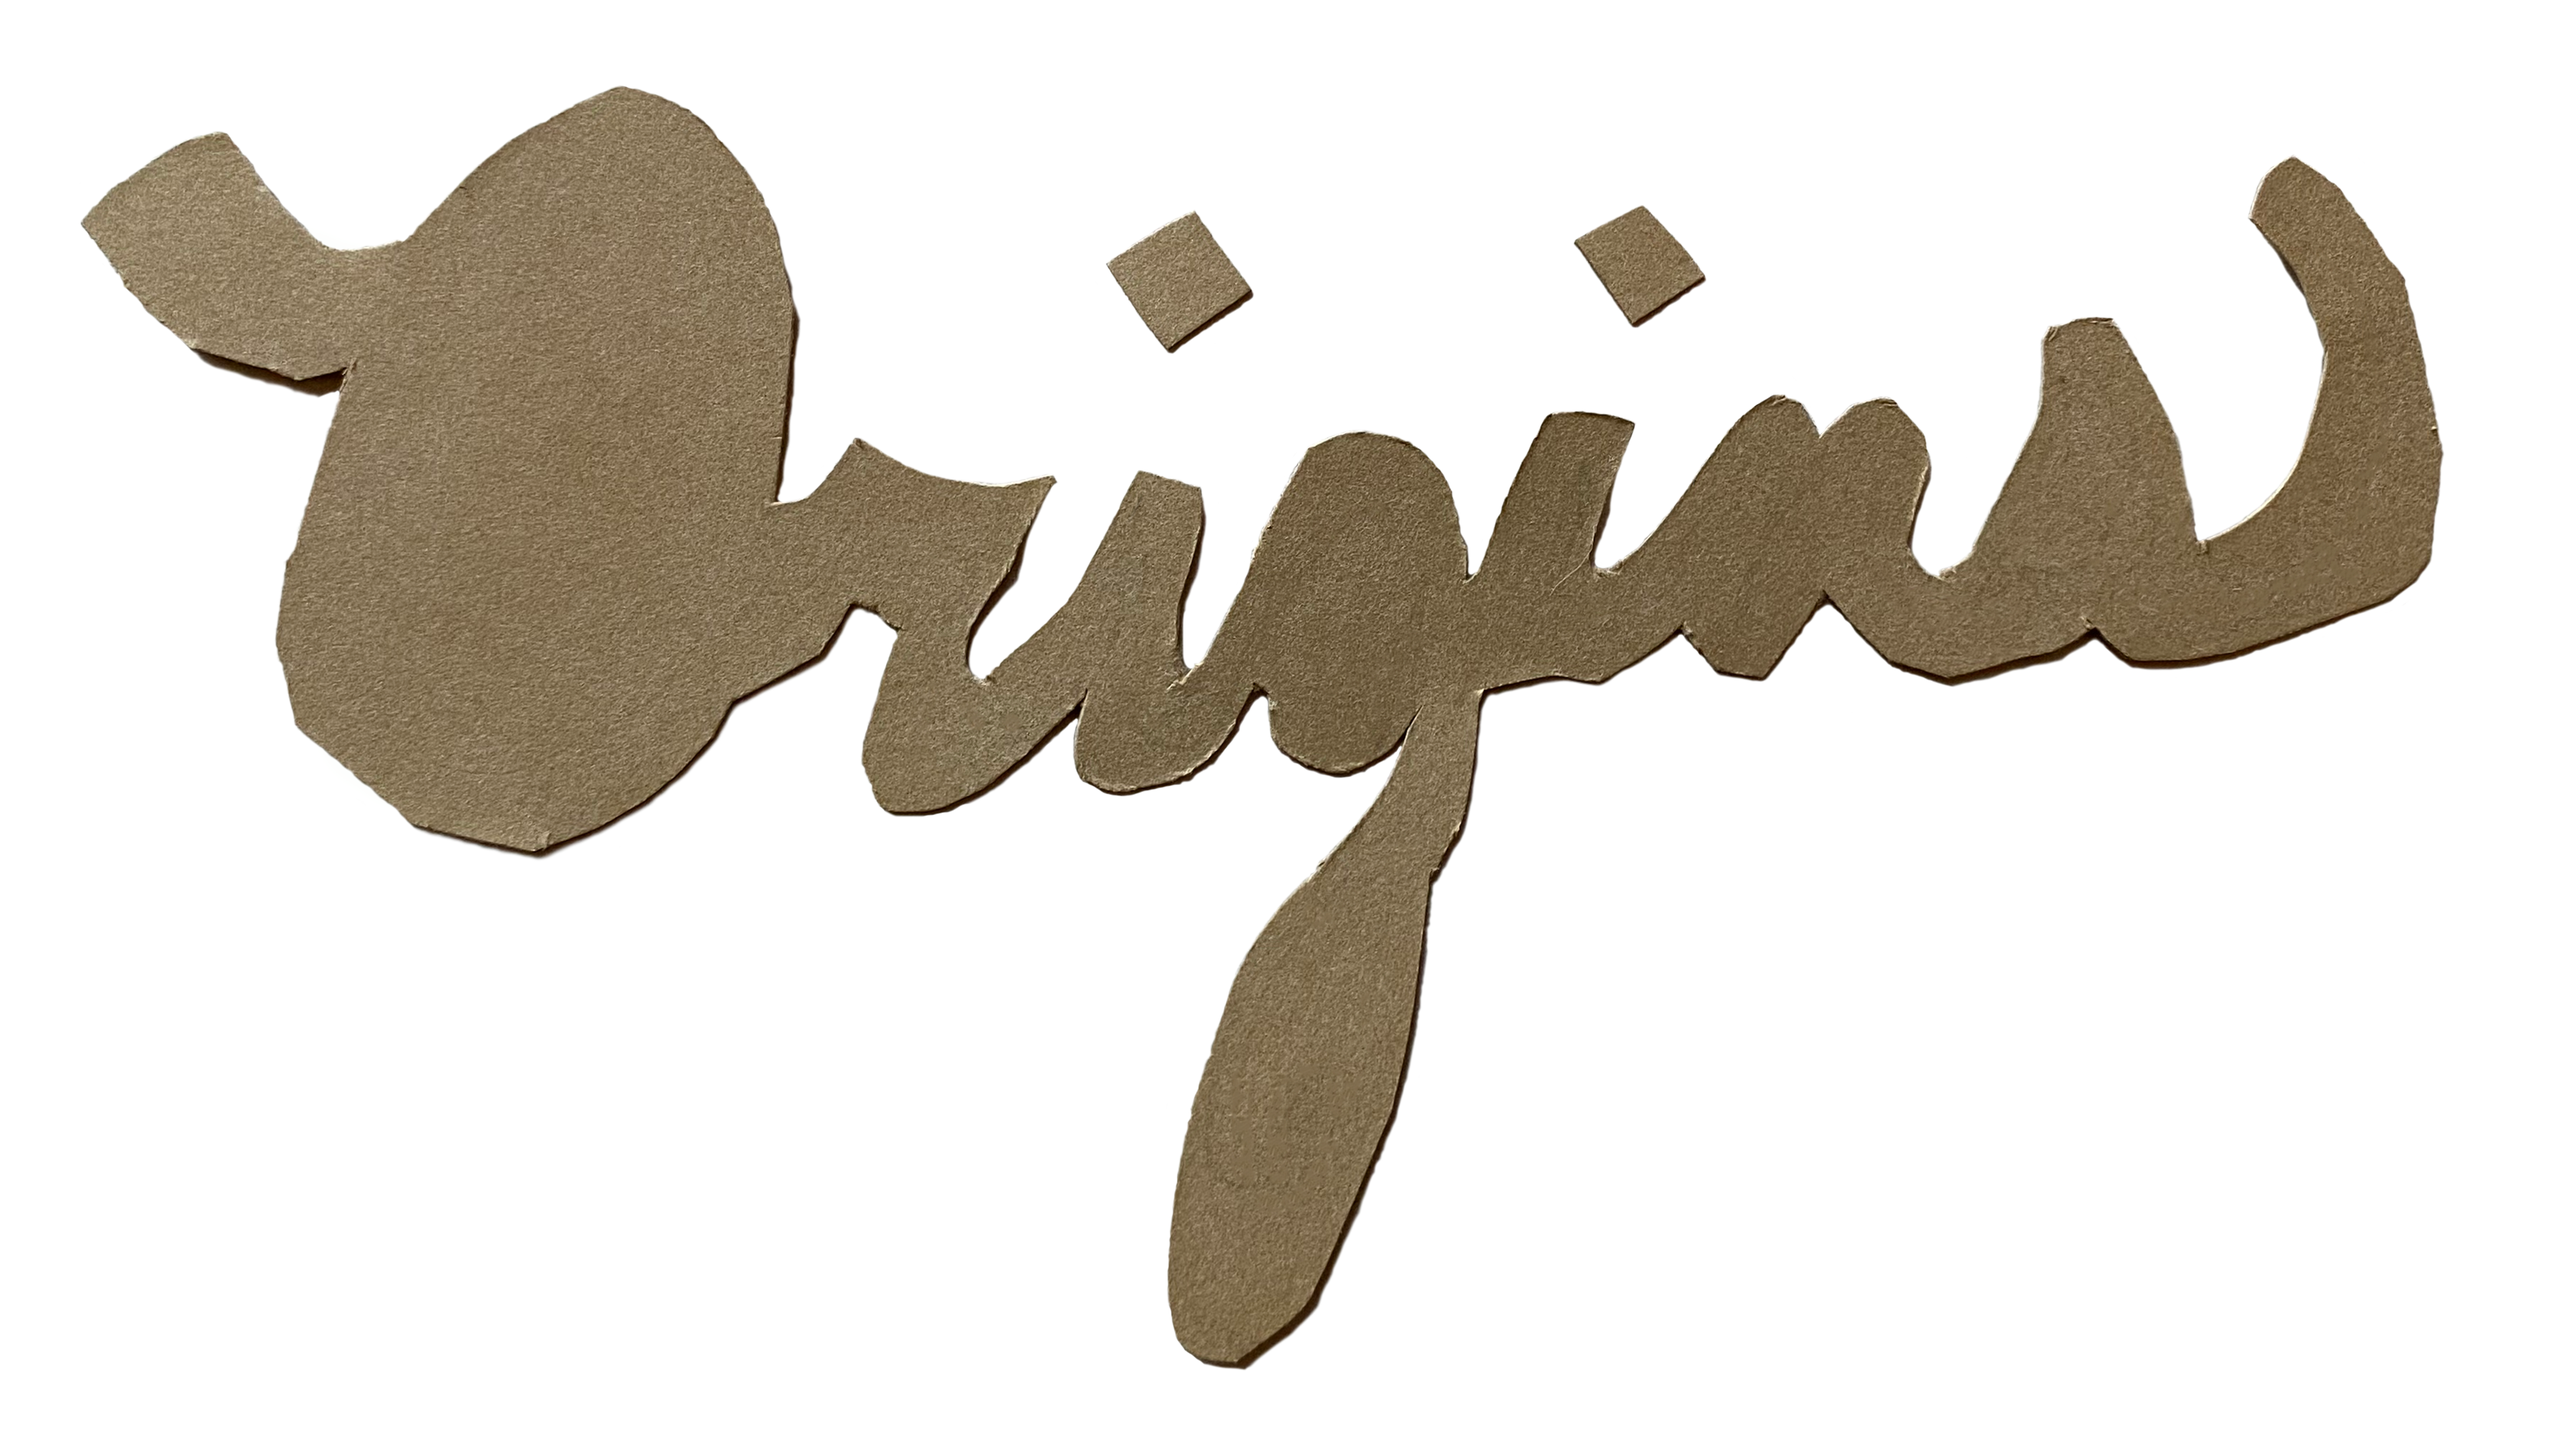
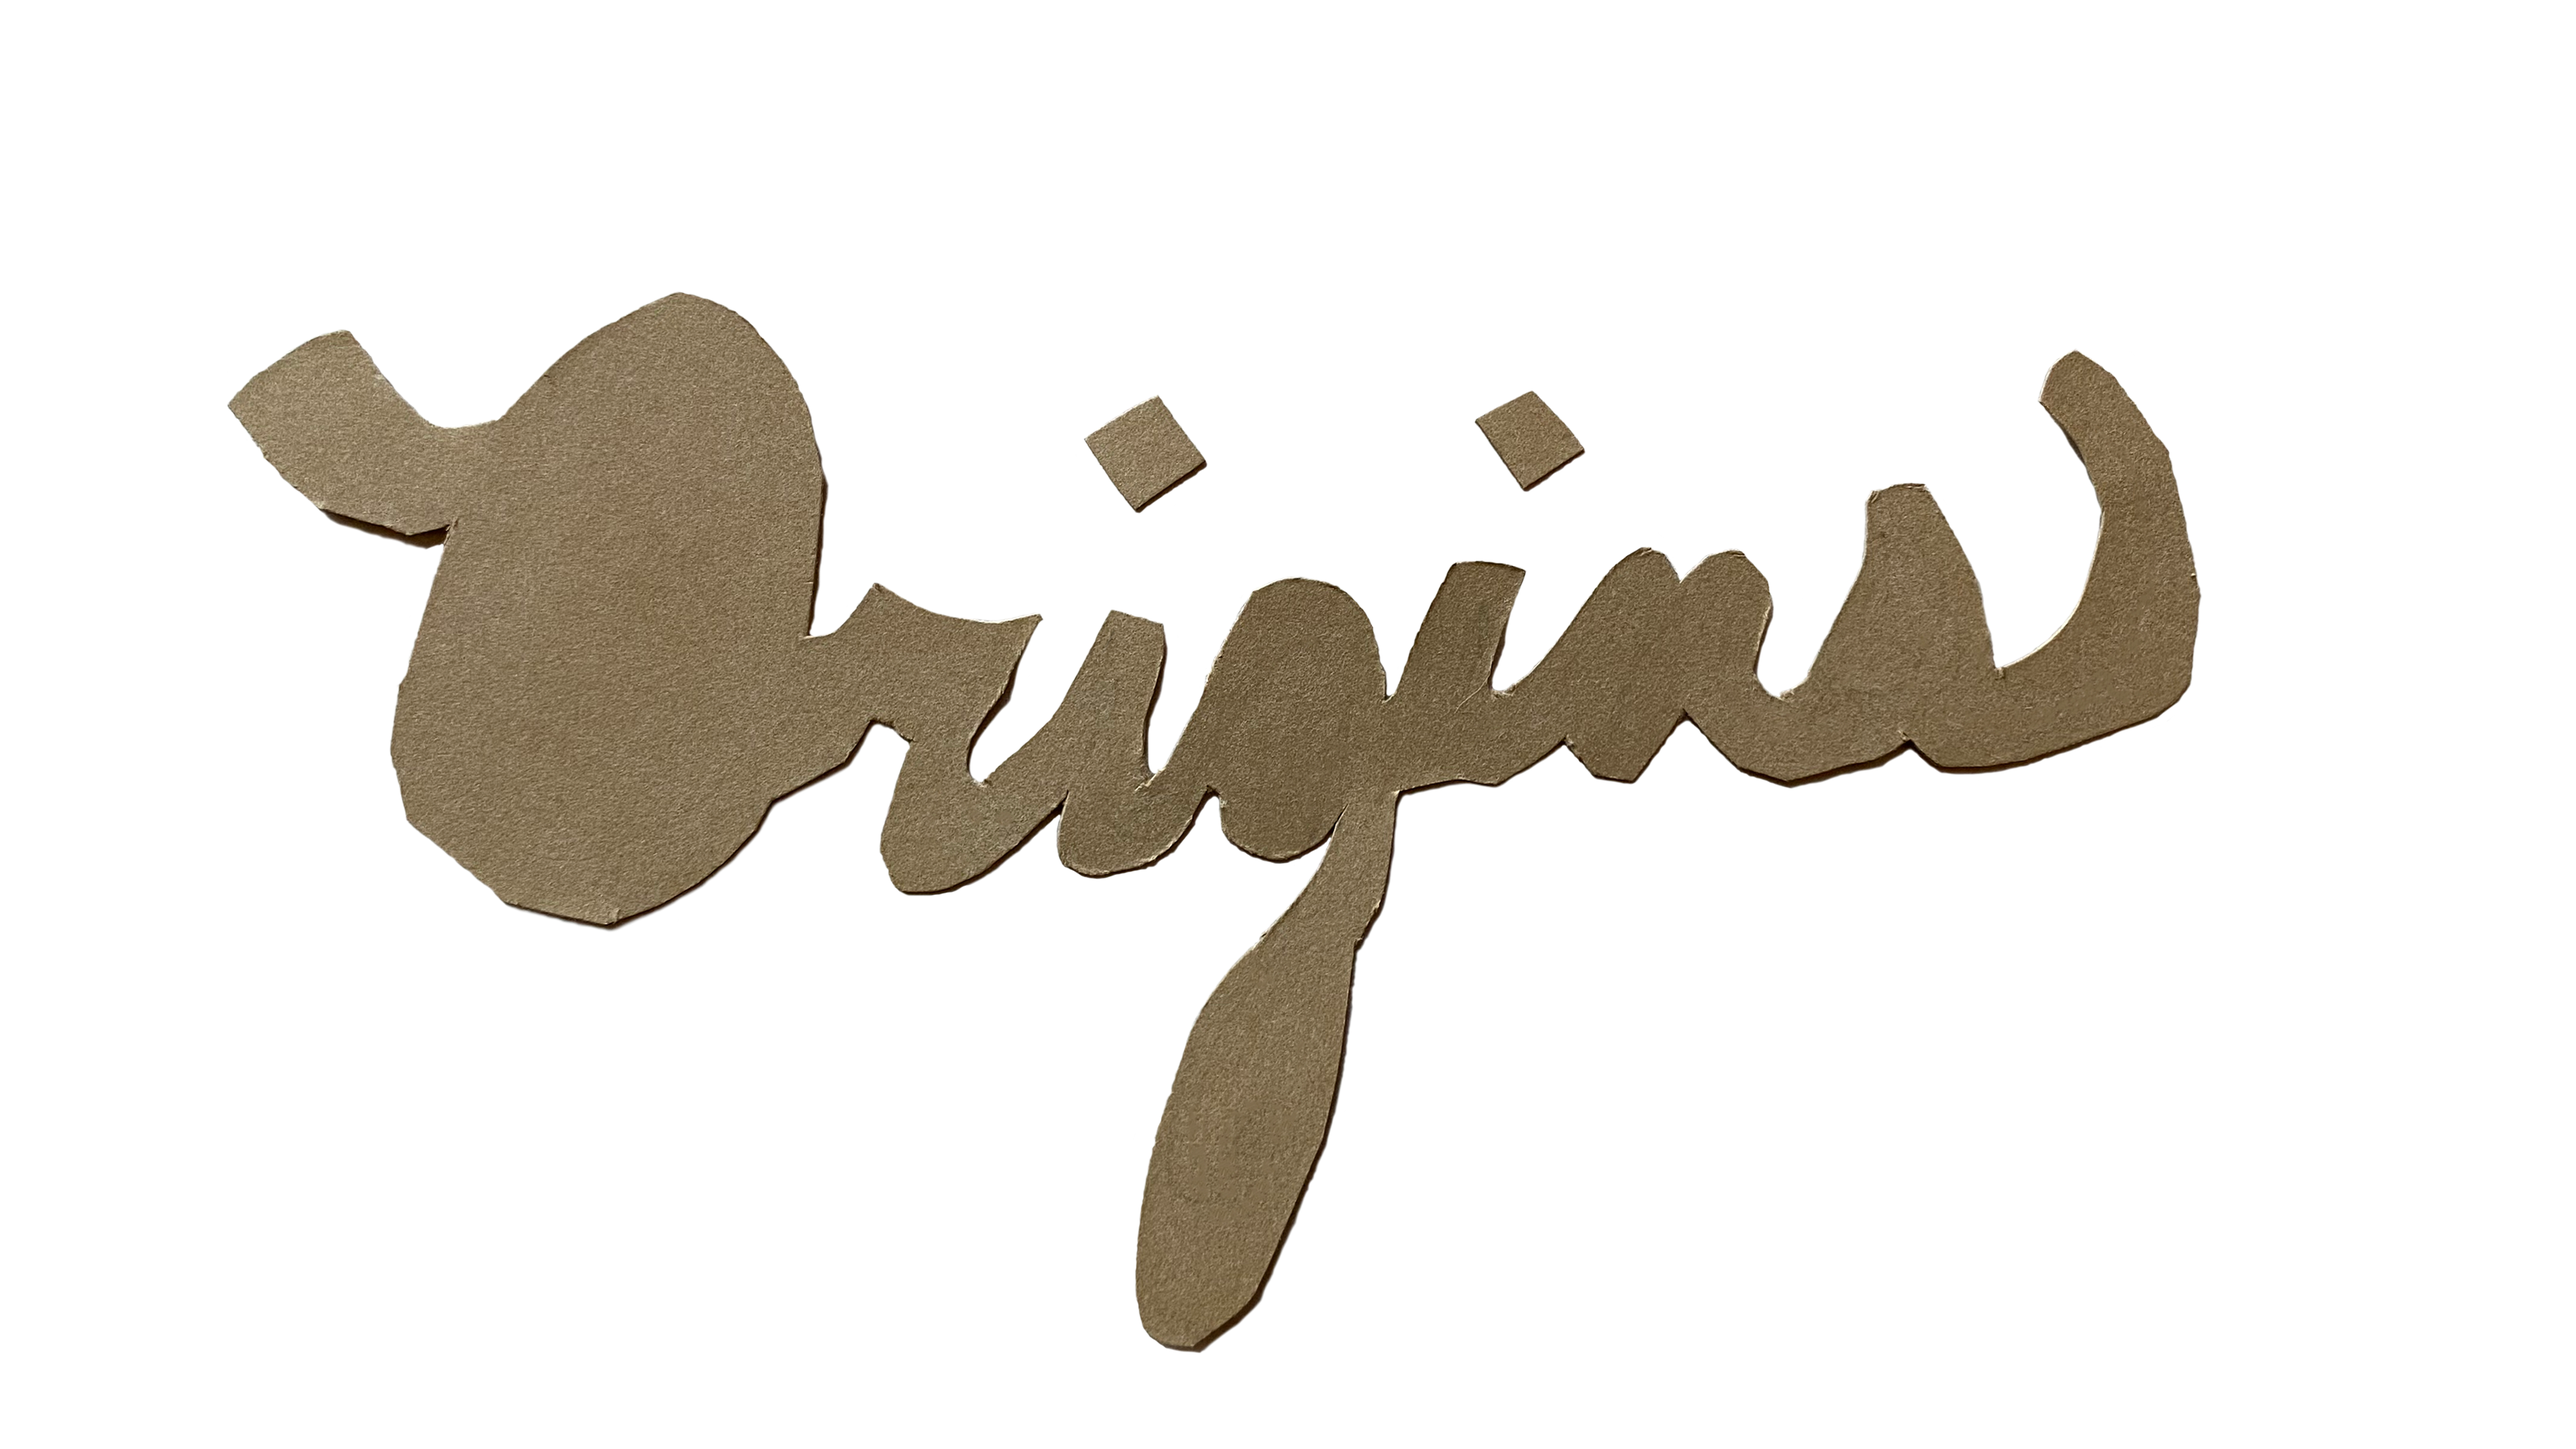
new section header cutouts

Changed region(s): [[0.0311, 0.0622, 0.9644, 0.9644], [0.5911, 0.1244, 0.6844, 0.2178], [0.4356, 0.1556, 0.4978, 0.2489]]

diff --git a/index.html b/index.html
@@ -297,7 +297,7 @@
 
                 <div id="one">
                 <img class="full-width-img" src="./images/new/EDMN_Ballon_Edelman_Header.jpg" style="margin-top: 100px;">
-                <img class="overlaid-img" src="./images/EDMN_Origins.png">
+                <img class="overlaid-img" src="./images/EDMN_Edelman.png">
              
 
                 <div class="copy-section">
@@ -325,7 +325,7 @@
 
                 <div id="one" class="page-section">
                     <img class="full-width-img-olive" src="./images/EDMN_Archive_ArthurTeddy_Portrait-01.png">
-                    <img class="overlaid-img" src="./images/EDMN_Origins.png">
+                    <img class="overlaid-img" src="./images/EDMN_History.png">
 
                 </div>
 
@@ -454,7 +454,7 @@
 
                  <div id="four" class="page-section">
                 <img class="full-width-img" src="./images/new/EDMN_Ballon_DesignStudio_Header.jpg">
-                <img class="overlaid-img" src="./images/EDMN_Origins.png">
+                <img class="overlaid-img" src="./images/EDMN_DesignStudio.png">
 
                
 
